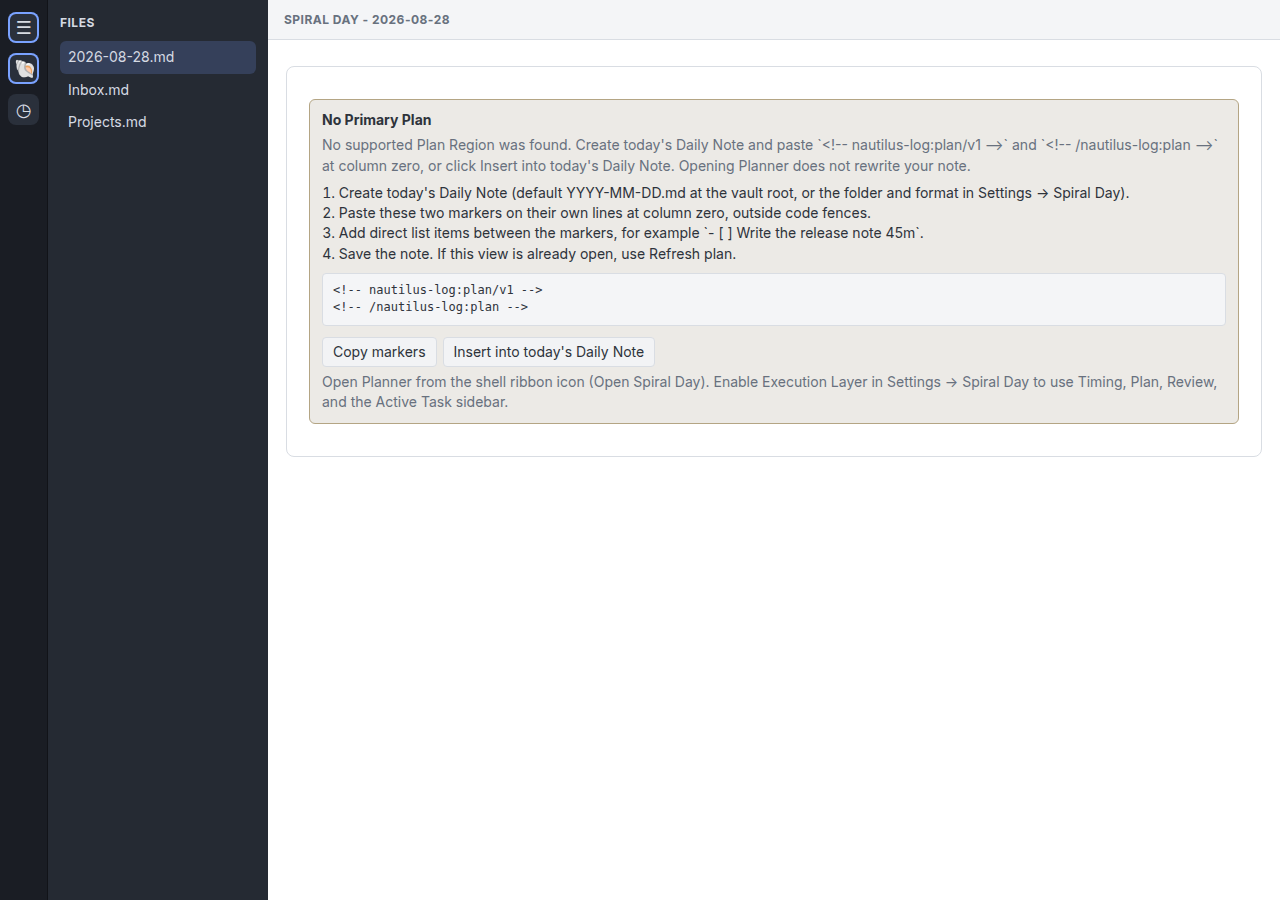
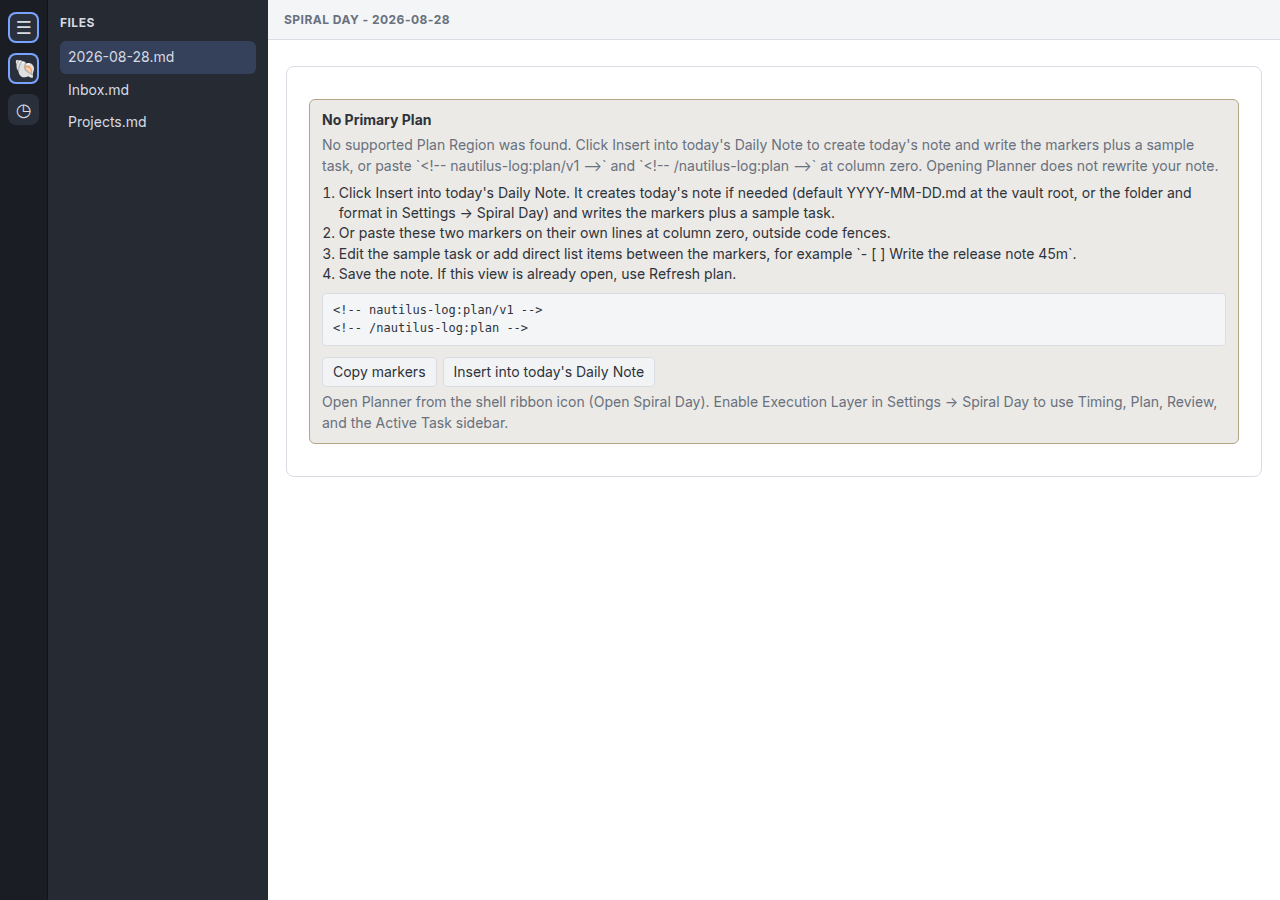
fix(onboarding): first-run steps lead with Insert
Empty Planner and Settings still told people to create today's note and
paste markers first. Insert already creates the note and writes a sample
task, so the numbered steps, handbook, and README now start there.

Changed region(s): [[0.2188, 0.1556, 0.9688, 0.4978]]

diff --git a/src/i18n/locales/en/planner.ts b/src/i18n/locales/en/planner.ts
@@ -60,10 +60,10 @@ export const enPlanner = Object.freeze({
   "status.errorDetail": "The confirmed plan could not be read. Refresh after checking the source note.",
   "status.hiddenDetail": "This leaf is hidden; the projection will refresh when revealed.",
   "status.loadingDetail": "Reading the confirmed plan snapshot.",
-  "status.missingDetail": "No supported Plan Region was found. Create today's Daily Note and paste `<!-- nautilus-log:plan/v1 -->` and `<!-- /nautilus-log:plan -->` at column zero, or click Insert into today's Daily Note. Opening Planner does not rewrite your note.",
-  "status.missingStepNote": "Create today's Daily Note (default YYYY-MM-DD.md at the vault root, or the folder and format in Settings → Spiral Day).",
-  "status.missingStepMarkers": "Paste these two markers on their own lines at column zero, outside code fences.",
-  "status.missingStepItems": "Add direct list items between the markers, for example `- [ ] Write the release note 45m`.",
+  "status.missingDetail": "No supported Plan Region was found. Click Insert into today's Daily Note to create today's note and write the markers plus a sample task, or paste `<!-- nautilus-log:plan/v1 -->` and `<!-- /nautilus-log:plan -->` at column zero. Opening Planner does not rewrite your note.",
+  "status.missingStepNote": "Click Insert into today's Daily Note. It creates today's note if needed (default YYYY-MM-DD.md at the vault root, or the folder and format in Settings → Spiral Day) and writes the markers plus a sample task.",
+  "status.missingStepMarkers": "Or paste these two markers on their own lines at column zero, outside code fences.",
+  "status.missingStepItems": "Edit the sample task or add direct list items between the markers, for example `- [ ] Write the release note 45m`.",
   "status.missingStepRefresh": "Save the note. If this view is already open, use Refresh plan.",
   "status.missingCopyMarkers": "Copy markers",
   "status.missingCopied": "Markers copied.",

diff --git a/src/i18n/locales/zh-CN/planner.ts b/src/i18n/locales/zh-CN/planner.ts
@@ -60,10 +60,10 @@ export const zhCNPlanner = Object.freeze({
   "status.errorDetail": "无法读取已确认的计划。请检查源笔记后刷新。",
   "status.hiddenDetail": "此视图当前隐藏；再次显示时会刷新投影。",
   "status.loadingDetail": "正在读取已确认的计划快照。",
-  "status.missingDetail": "没有找到受支持的计划区域。请创建今日日记，在行首粘贴 `<!-- nautilus-log:plan/v1 -->` 和 `<!-- /nautilus-log:plan -->`，或点击「写入今日日记」。打开规划器不会自动改写笔记。",
-  "status.missingStepNote": "创建今日日记（默认是库根目录下的 YYYY-MM-DD.md，或使用 设置 → Spiral Day 中的文件夹与日期格式）。",
-  "status.missingStepMarkers": "把下面两个标记各自单独一行写在行首，不要放进代码块。",
-  "status.missingStepItems": "在标记之间写入直接列表项，例如 `- [ ] 写发布说明 45m`。",
+  "status.missingDetail": "没有找到受支持的计划区域。请点「写入今日日记」创建今日笔记并写入标记加示例任务，或在行首粘贴 `<!-- nautilus-log:plan/v1 -->` 和 `<!-- /nautilus-log:plan -->`。打开规划器不会自动改写笔记。",
+  "status.missingStepNote": "点「写入今日日记」。没有今日笔记时会按需创建（默认是库根目录下的 YYYY-MM-DD.md，或使用 设置 → Spiral Day 中的文件夹与日期格式），并写入标记加一条示例任务。",
+  "status.missingStepMarkers": "或者把下面两个标记各自单独一行写在行首，不要放进代码块。",
+  "status.missingStepItems": "改示例任务，或在标记之间写入直接列表项，例如 `- [ ] 写发布说明 45m`。",
   "status.missingStepRefresh": "保存笔记。如果规划器已经打开，请点「刷新日程」。",
   "status.missingCopyMarkers": "复制标记",
   "status.missingCopied": "已复制标记。",

diff --git a/tests/ui/planner-controls/i18n.test.ts b/tests/ui/planner-controls/i18n.test.ts
@@ -133,7 +133,11 @@ test("TC-OBS-I18N-001-001 every over-limit kind is localized without leaking int
 test("missing-plan copy offers an explicit insert without rewriting on open", () => {
   assert.match(enPlanner["status.missingInsert"], /Insert into today's Daily Note/);
   assert.match(enPlanner["status.missingDetail"], /Opening Planner does not rewrite/);
+  assert.match(enPlanner["status.missingStepNote"], /^Click Insert into today's Daily Note/);
+  assert.match(enPlanner["status.missingStepMarkers"], /^Or paste these two markers/);
   assert.match(zhCNPlanner["status.missingInsert"], /写入今日日记/);
+  assert.match(zhCNPlanner["status.missingStepNote"], /^点「写入今日日记」/);
+  assert.match(zhCNPlanner["status.missingStepMarkers"], /^或者把下面两个标记/);
   assert.match(zhCNPlanner["status.missingStepRefresh"], /刷新日程/);
 });
 

diff --git a/tests/ui/execution/first-run.test.ts b/tests/ui/execution/first-run.test.ts
@@ -77,6 +77,8 @@ test("missing-plan guidance copies markers and inserts only after an explicit cl
   });
   const text = collect(root).join("\n");
   assert.match(text, /Insert into today's Daily Note/);
+  assert.match(text, /creates today's note if needed/);
+  assert.match(text, /Or paste these two markers/);
   assert.equal(text.includes(PRIMARY_PLAN_MARKERS), true);
   assert.equal(inserted, 0);
 

diff --git a/README.md b/README.md
@@ -54,11 +54,10 @@ empty Planner that now lists the next action.
 
 1. Open **Settings → Spiral Day**. Leave the defaults for the first run, or set
    **Daily Note folder** and **Daily Note date format** to match your journal.
-2. Create today's Daily Note. The default path is `YYYY-MM-DD.md` at the vault
-   root.
-3. Open Planner or **Settings → Spiral Day** and click **Insert into today's
-   Daily Note**. That creates today's note if needed and writes the markers plus
-   one sample task. Opening Planner never inserts them by itself. You can still
+2. Click **Insert into today's Daily Note** in Planner, Settings, or Review
+   (today). That creates today's note if needed (default `YYYY-MM-DD.md` at the
+   vault root) and writes the markers plus one sample task. Opening Planner
+   never inserts them by itself. You can still create the note yourself and
    paste this pair at column zero:
 
    ```markdown
@@ -68,10 +67,10 @@ empty Planner that now lists the next action.
    <!-- /nautilus-log:plan -->
    ```
 
-4. Click the **Open Spiral Day** ribbon icon. The Planner reads that Primary
+3. Click the **Open Spiral Day** ribbon icon. The Planner reads that Primary
    Plan. If the markers are missing, it shows them again and offers **Copy
    markers** and **Insert into today's Daily Note**.
-5. Enable **Execution Layer** when you want CLOCK, POMO, Timing, Plan, Review,
+4. Enable **Execution Layer** when you want CLOCK, POMO, Timing, Plan, Review,
    the Active Task sidebar, and `Spiral Day:` command-palette actions.
 
 Complete manuals:

diff --git a/docs/user-guide.md b/docs/user-guide.md
@@ -63,11 +63,11 @@ write the markers plus a sample task.
 1. Open **Settings → Spiral Day**. Leave defaults for the first day, or set
    **Daily Note folder** and **Daily Note date format** so they resolve the
    note you already use.
-2. Create today's Daily Note. Default: `YYYY-MM-DD.md` at the vault root.
-3. Click **Insert into today's Daily Note**, or paste the two markers and add
-   direct list items between them.
-4. Click the **Open Spiral Day** ribbon icon.
-5. Enable **Execution Layer** when you want CLOCK, POMO, Timing, Plan,
+2. Click **Insert into today's Daily Note**. It creates today's note if needed
+   (default `YYYY-MM-DD.md` at the vault root) and writes the markers plus a
+   sample task. Or create the note yourself and paste the two markers.
+3. Click the **Open Spiral Day** ribbon icon.
+4. Enable **Execution Layer** when you want CLOCK, POMO, Timing, Plan,
    Review, Active Task, and commands.
 
 ![Open Planner from the ribbon](user-guide/images/03-open-planner-ribbon.png)
